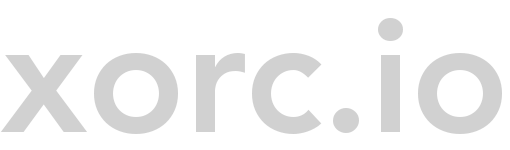
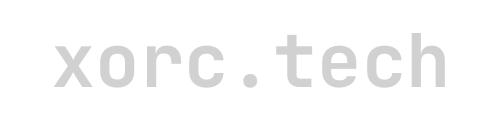
Changed domain name (#4)
* changed domain name

* logo

* submodule

Changed region(s): [[0.0, 0.2845, 0.9861, 0.9052], [0.7171, 0.1034, 0.8068, 0.2845]]

diff --git a/layouts/partials/header.html b/layouts/partials/header.html
@@ -4,8 +4,8 @@
 <head>
 
 <meta http-equiv="Content-Type" content="text/html; charset=UTF-8">
-<meta name="description" content="xorc.io - xray realtime distributed orchestration platform">
-<meta name="author" content="xorc.io">
+<meta name="description" content="xorc.tech - xray realtime distributed orchestration platform">
+<meta name="author" content="xorc.tech">
 {{ .Hugo.Generator }}
 
 <title>{{ .Site.Title }}</title>

diff --git a/layouts/partials/footer.html b/layouts/partials/footer.html
@@ -40,7 +40,7 @@
         </div>
     </div> -->
     <div class="footer-bottom">
-        <h5>Copyright xorc.io 2018. All rights reserved.</h5>
+        <h5>Copyright xorc.tech 2018. All rights reserved.</h5>
         <h6>Theme Designed and Developed by themefisher.com</h6>
     </div>
 </footer>

diff --git a/README.md b/README.md
@@ -1,6 +1,6 @@
-## xorc.io
+## xorc.tech
 
-This repo contains the [Hugo](https://gohugo.io/) sources of [http://xorc.io](http://xorc.io)
+This repo contains the [Hugo](https://gohugo.io/) sources of [http://xorc.tech](http://xorc.tech)
 
 
 ### Installing
@@ -36,6 +36,7 @@ hugo
 ```
 cd public
 git add .
+git commit -m "Updated domain"
 git push origin master
 ```
 
